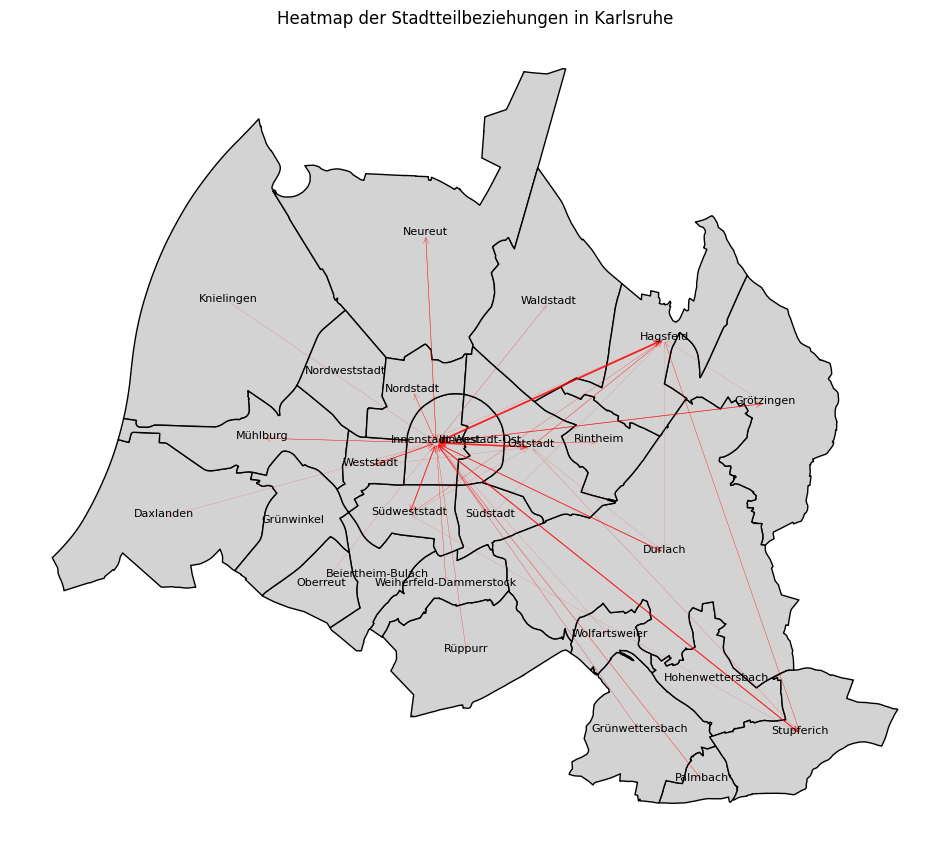
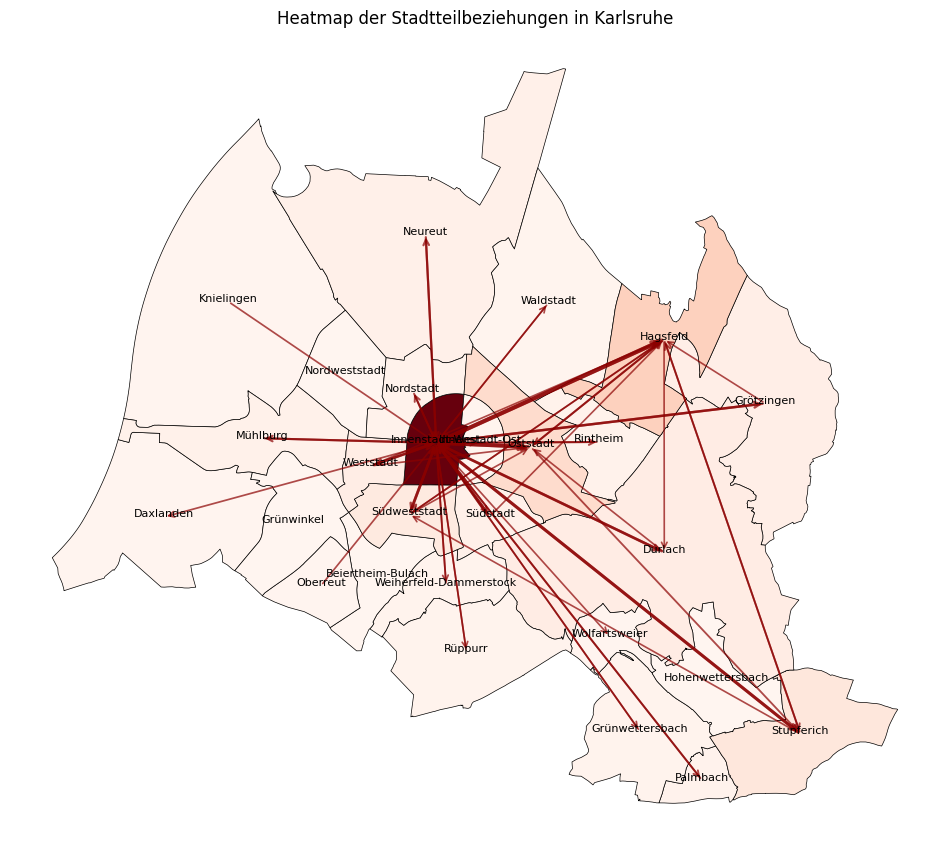
improved heatmap

diff --git a/6_Part 3 Analysis/visualization.py b/6_Part 3 Analysis/visualization.py
@@ -108,26 +108,36 @@ try:
 except Exception as e:
     print(f"Fehler beim Laden der Shapedatei: {e}")
 else:
-    # Detect district name column
+    # District name column detection
     string_cols = gdf.select_dtypes(include=['object']).columns.tolist()
     possible = [col for col in string_cols if 'name' in col.lower() or 'stadtteil' in col.lower()]
     name_col = possible[0] if possible else string_cols[0]
     gdf['district_name'] = gdf[name_col]
+
     # Compute centroids
     gdf['centroid'] = gdf.geometry.centroid
-    # Create mapping
-    centroid_dict = dict(zip(gdf['district_name'], gdf['centroid']))
+
     # Load relationship data
     rel_df = pd.read_csv(OUTPUT_CSV_PATH)
     rel_df = rel_df.dropna(subset=['Stadtteil Start', 'Stadtteil Ziel'])
     rel_df = rel_df[(rel_df['Stadtteil Start'] != 'Restliche Wege') & (rel_df['Stadtteil Ziel'] != '')]
+
     if rel_df.empty:
         print('Keine Stadtteilbeziehungen zum Anzeigen.')
     else:
+        # Compute flow sum per district for shading
+        flow_start = rel_df.groupby('Stadtteil Start')['Anzahl Wege'].sum()
+        flow_target = rel_df.groupby('Stadtteil Ziel')['Anzahl Wege'].sum()
+        flow_total = flow_start.add(flow_target, fill_value=0)
+        gdf['flow_sum'] = gdf['district_name'].map(flow_total).fillna(0)
+
         max_count = rel_df['Anzahl Wege'].max()
         fig, ax = plt.subplots(figsize=(12, 12))
-        gdf.plot(ax=ax, edgecolor='black', facecolor='lightgrey')
-        # Plot arrows
+        # Plot choropleth shading
+        gdf.plot(ax=ax, column='flow_sum', cmap='Reds', edgecolor='black', linewidth=0.5)
+
+        # Plot arrows with increased width
+        centroid_dict = dict(zip(gdf['district_name'], gdf['centroid']))
         for _, row in rel_df.iterrows():
             start = row['Stadtteil Start']
             target = row['Stadtteil Ziel']
@@ -135,14 +145,16 @@ else:
             if start in centroid_dict and target in centroid_dict:
                 x_start, y_start = centroid_dict[start].x, centroid_dict[start].y
                 x_end, y_end = centroid_dict[target].x, centroid_dict[target].y
-                width = (count / max_count) * 5
+                # Increased arrow width
+                width = 1 + (count / max_count) * 8
                 ax.annotate('', xy=(x_end, y_end), xytext=(x_start, y_start),
-                            arrowprops=dict(arrowstyle='->', color='red', linewidth=width, alpha=0.6))
+                            arrowprops=dict(arrowstyle='->', color='darkred', linewidth=width, alpha=0.7))
         # Label districts
         for _, row in gdf.iterrows():
             x, y = row['centroid'].x, row['centroid'].y
             name = row['district_name']
             ax.text(x, y, name, horizontalalignment='center', fontsize=8)
+
         ax.set_title('Heatmap der Stadtteilbeziehungen in Karlsruhe')
         ax.axis('off')
         plt.savefig(HEATMAP_PNG_PATH, bbox_inches='tight')
